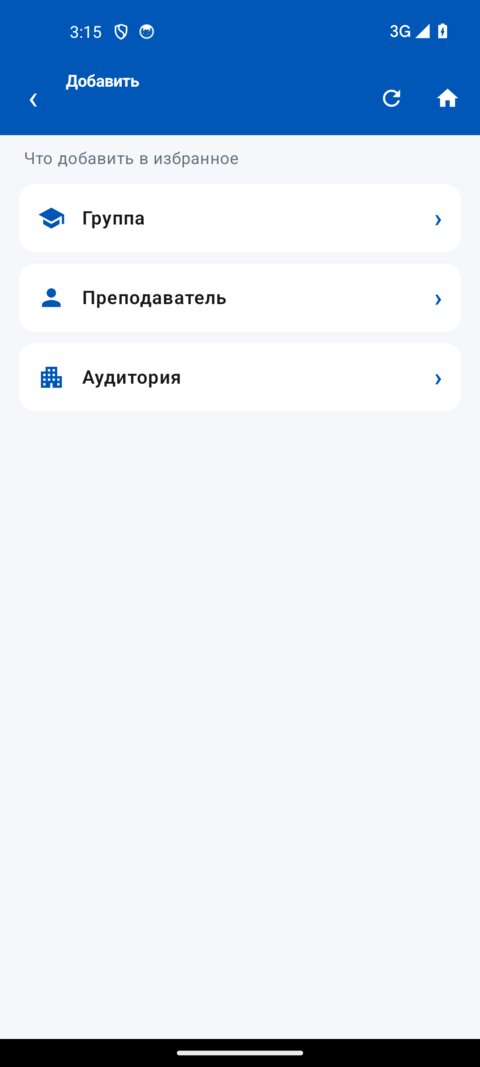
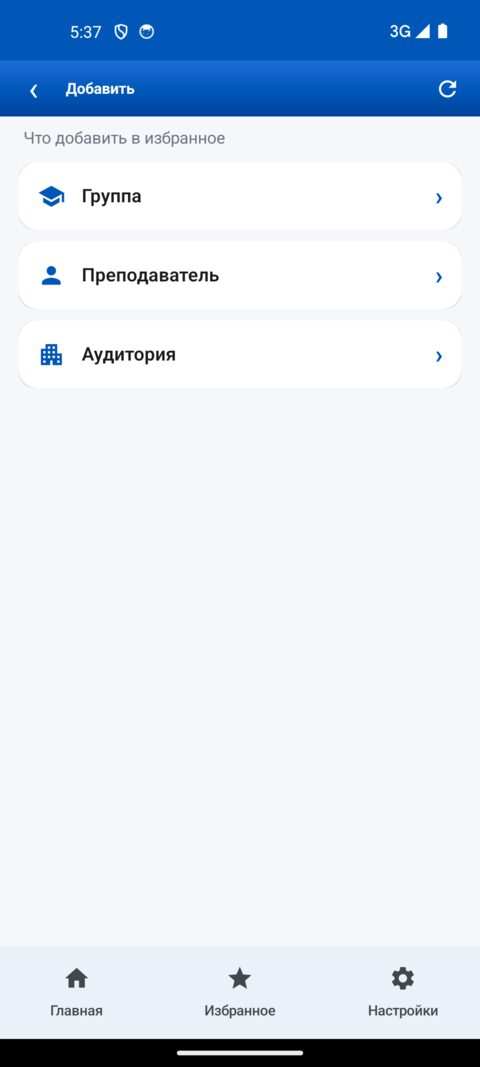
0.75: релизная сборка вместо отладочной, README под текущий интерфейс
- Релизы 0.72–0.74 собирались задачей assembleDebug и ушли пользователям с
  флагом android:debuggable: к приложению можно подключить отладчик, данные
  читаются проще, размер 19,5 МБ вместо 13,8 МБ. 0.75 собрана assembleRelease:
  флага нет, размер 13,9 МБ, поведение не изменилось.
- RELEASE.md: явно записано собирать assembleRelease и проверять, что в
  готовом APK нет android:debuggable — раньше было сказано просто «собрать и
  подписать», поэтому и вышел отладочный релиз.
- app/build.gradle.kts: переводы строк приведены к LF. Файл приехал из
  Windows-окружения с CRLF, из-за чего дифф всего файла был нечитаем.
- README.md: описан текущий интерфейс — три вкладки внизу, экран «Избранное»,
  «Настройки» с напоминаниями и «О программе», прогресс загрузки аудиторий.
  Снимки экранов пересняты на 0.75, добавлены «Избранное» и «Настройки».
- Тесты: 343, падений 0.

diff --git a/README.md b/README.md
@@ -12,12 +12,35 @@
 подсвечена фоном и подписана «сейчас» — тем же цветом, что и карточка идущей
 пары на экране расписания. Отсчёт обновляется сам каждую минуту.
 
-Ниже — **список избранного**: по кнопке на каждую отмеченную группу,
-преподавателя и аудиторию. Нажатие открывает расписание сразу, без
-промежуточных экранов.
+Ниже — **избранное**: три карточки последних добавленных и строка «Ещё N», если
+выбрано больше. Нажатие на карточку открывает расписание сразу, без
+промежуточных экранов, — работает и для группы, и для преподавателя, и для
+аудитории.
 
-Кнопка **«Добавить»** — как добавить новое. В самом низу — ссылки на
-настройки, мини-игру и «О программе».
+Кнопка **«Добавить»** — как добавить новое.
+
+## Три вкладки внизу
+
+Меню «Главная / Избранное / Настройки» видно на любом экране, активная вкладка
+подсвечена.
+
+### Избранное
+
+![Избранное](docs/07-favorites.jpg)
+
+Полный список всего, что вы отметили: группы, преподаватели, аудитории. Здесь
+же кнопка **«Добавить»** — отмечать новое можно прямо с этой вкладки, не
+возвращаясь на главную.
+
+Если список пуст, приложение подскажет, как его заполнить.
+
+### Настройки
+
+![Настройки](docs/08-settings.jpg)
+
+Всё в одном месте: **напоминания о парах** и интервал до начала пары,
+**оформление** и раздел **«О программе»** — там версия, проверка обновлений и
+кнопка «Сообщить об ошибке».
 
 ## Что умеет
 
@@ -25,8 +48,8 @@
 
 Расписание можно смотреть с трёх сторон: как **группа** (своя), как
 **преподаватель** (по фамилии) или как **аудитория** (по номеру помещения).
-Выбранное отмечается звездой и появляется на главной в списке избранного;
-звезда снимается там же, в шапке расписания.
+Выбранное отмечается звездой и появляется во вкладке «Избранное»; звезда
+снимается там же, в шапке расписания.
 
 ![Добавление](docs/02-add.jpg)
 
@@ -64,6 +87,10 @@
 свободны на выбранной паре. На каждой видно, занята ли она сейчас, и если
 пара идёт — сколько минут осталось.
 
+Пока список собирается, видно, сколько уже загружено, — экран не выглядит
+пустым. Следующий заход на эту вкладку открывается мгновенно: данные уже
+сохранены на телефоне.
+
 ![Аудитории](docs/05-audience.jpg)
 
 ### Работает без интернета
@@ -74,11 +101,11 @@
 
 ### Напоминания о парах
 
-Можно попросить напоминать за 1, 5, 10 или 15 минут до начала пары.
-Напоминания ставятся для групп из избранного и **работают без интернета** —
-расписание берётся из локальной копии. После перезагрузки телефона
-восстанавливаются сами. Тап по напоминанию открывает расписание той группы,
-по которой оно пришло.
+Включаются в «Настройках». Можно попросить напоминать за 1, 5, 10 или 15 минут
+до начала пары. Напоминания ставятся для групп из избранного и **работают без
+интернета** — расписание берётся из локальной копии. После перезагрузки
+телефона восстанавливаются сами. Тап по напоминанию открывает расписание той
+группы, по которой оно пришло.
 
 ### Мини-игра «Тапать микросхему»
 
@@ -108,9 +135,9 @@
 
 ## Если что-то не работает
 
-Внутри приложения есть кнопка **«Сообщить об ошибке»** (раздел «О программе»).
-Она сама собирает версию приложения, выбранную роль и состояние данных,
-так что в письме уже будет вся нужная информация.
+Внутри приложения есть кнопка **«Сообщить об ошибке»** — вкладка «Настройки»,
+раздел «О программе». Она сама собирает версию приложения, выбранную роль и
+состояние данных, так что в письме уже будет вся нужная информация.
 
 ## Как это сделано
 

diff --git a/RELEASE.md b/RELEASE.md
@@ -32,6 +32,30 @@
 Тесты обязаны проходить до выпуска. На текущий момент их около трёхсот,
 и они покрывают расчёт дней недели, расписания, напоминаний и обновлений.
 
+## Релизная сборка
+
+**Релиз собирается задачей `assembleRelease`, а не `assembleDebug`.**
+
+Отладочная сборка помечена в манифесте как `android:debuggable="true"`: к
+такому приложению можно подключить отладчик, его данные проще вытащить, и оно
+заметно больше по размеру — в 0.72–0.74 так и вышло: 19,5 МБ вместо 13,8 МБ,
+и это ушло пользователям. Отладочную сборку нельзя подписывать и выпускать,
+даже если файл называется `release`.
+
+```bash
+./gradlew assembleRelease
+```
+
+Проверка после подписи, что флаг не просочился в выпуск:
+
+```bash
+$ANDROID_HOME/build-tools/34.0.0/aapt dump xmltree MIET-Schedule-0.N-release.apk \
+  AndroidManifest.xml | grep -i debuggable
+```
+
+Команда не должна ничего вывести. Если вывела `android:debuggable` — собрана
+не та сборка, выпускать нельзя.
+
 ## Подпись
 
 В Gradle-конфигурации блока подписи нет намеренно: приложение подписывается
